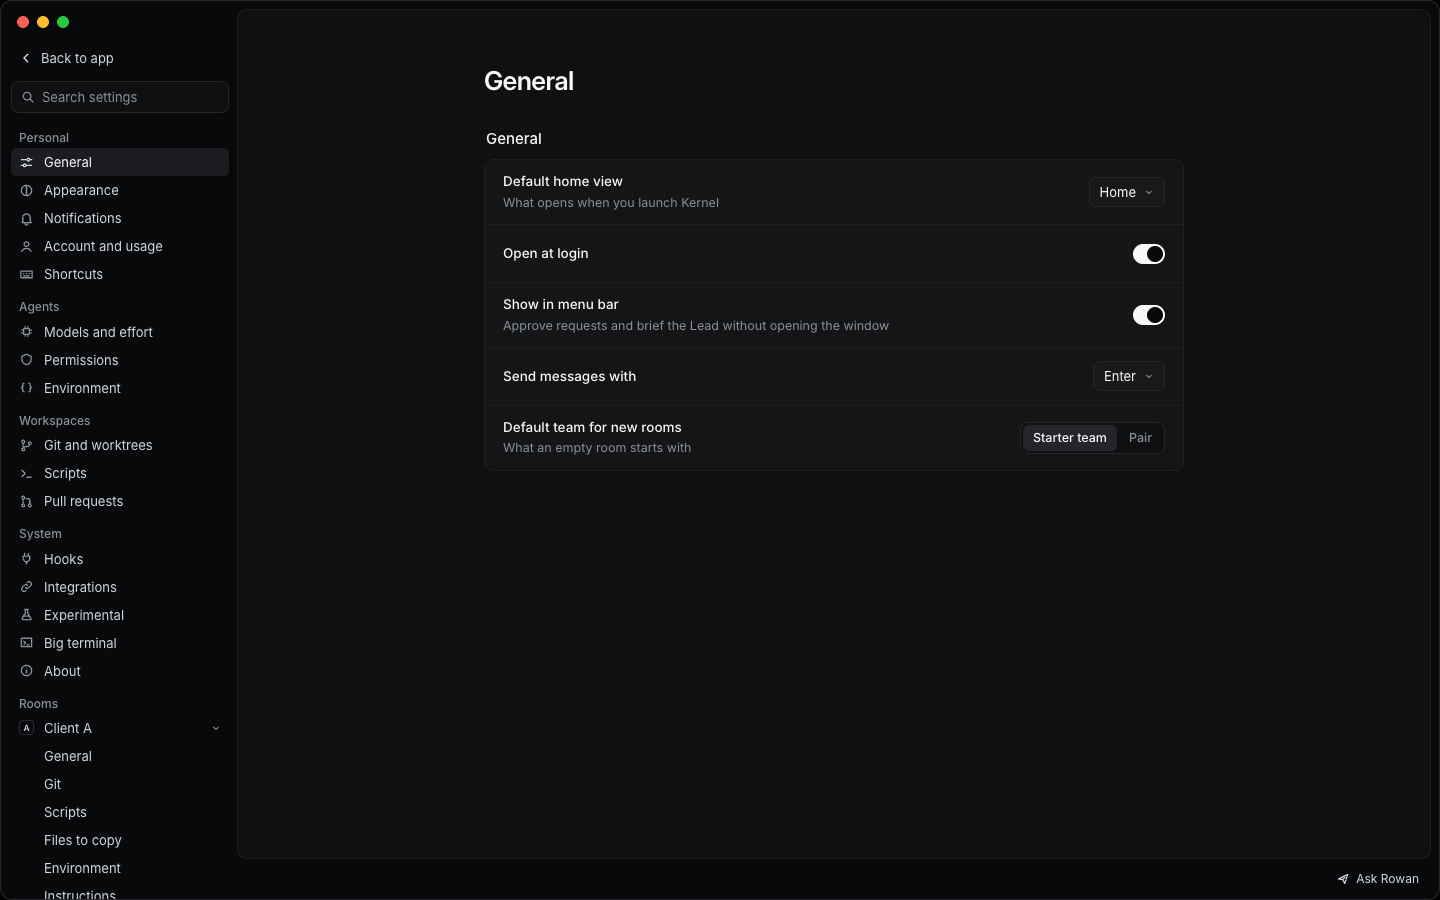
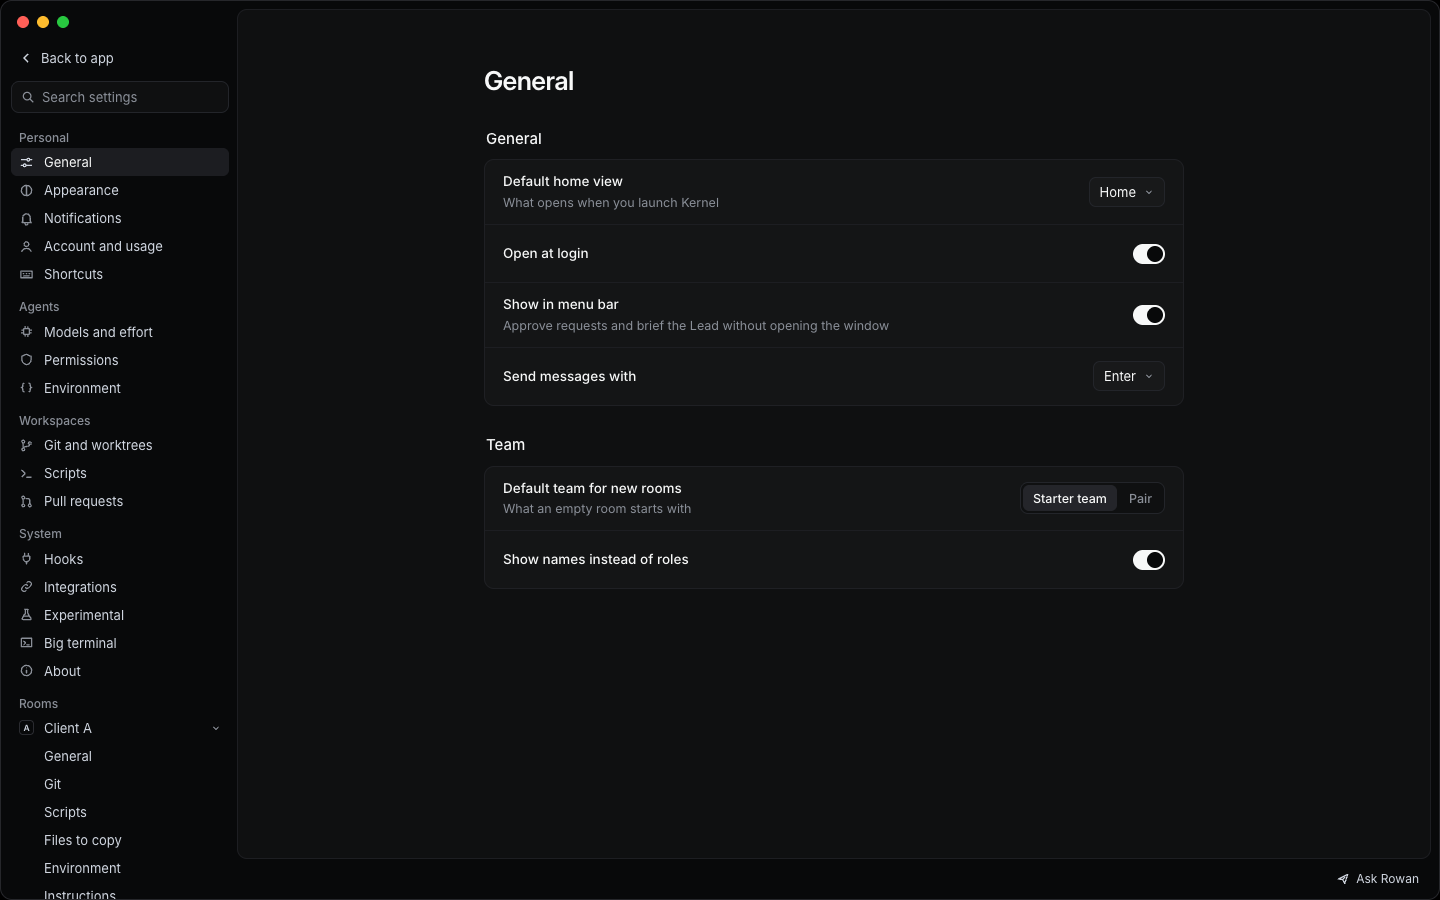
docs(design): move Show names instead of roles to the General page (KERNEL-189)

diff --git a/design/canvas/project/Settings.dc.html b/design/canvas/project/Settings.dc.html
@@ -204,7 +204,8 @@ class Component extends DCLogic {
     var roomPage = function (title, intro, sections) { return { title: title, intro: intro, isRoom: true, sections: sections }; };
     return {
       general: { title: 'General', sections: [
-        { title: 'General', rows: [sel('home', 'Default home view', ['Home', 'Inbox', 'Last room'], 'What opens when you launch Kernel'), tog('login', 'Open at login', true), tog('menubar', 'Show in menu bar', true, 'Approve requests and brief the Lead without opening the window'), sel('send', 'Send messages with', ['Enter', '⌘ Enter']), seg('newteam', 'Default team for new rooms', ['Starter team', 'Pair'], 0, 'What an empty room starts with')] }
+        { title: 'General', rows: [sel('home', 'Default home view', ['Home', 'Inbox', 'Last room'], 'What opens when you launch Kernel'), tog('login', 'Open at login', true), tog('menubar', 'Show in menu bar', true, 'Approve requests and brief the Lead without opening the window'), sel('send', 'Send messages with', ['Enter', '⌘ Enter'])] },
+        { title: 'Team', rows: [seg('newteam', 'Default team for new rooms', ['Starter team', 'Pair'], 0, 'What an empty room starts with'), tog('names', 'Show names instead of roles', true)] }
       ] },
       appearance: { title: 'Appearance', sections: [
         { title: 'Interface', rows: [seg('theme', 'Theme', ['Dark', 'Light', 'System']), sel('font', 'Font size', ['Default', 'Small', 'Large']), seg('density', 'Density', ['Comfortable', 'Compact']), tog('pointer', 'Use pointer cursors', false), tog('motion', 'Reduce motion', false)] }

diff --git a/design/canvas/project/SettingsAbout.dc.html b/design/canvas/project/SettingsAbout.dc.html
@@ -204,7 +204,8 @@ class Component extends DCLogic {
     var roomPage = function (title, intro, sections) { return { title: title, intro: intro, isRoom: true, sections: sections }; };
     return {
       general: { title: 'General', sections: [
-        { title: 'General', rows: [sel('home', 'Default home view', ['Home', 'Inbox', 'Last room'], 'What opens when you launch Kernel'), tog('login', 'Open at login', true), tog('menubar', 'Show in menu bar', true, 'Approve requests and brief the Lead without opening the window'), sel('send', 'Send messages with', ['Enter', '⌘ Enter']), seg('newteam', 'Default team for new rooms', ['Starter team', 'Pair'], 0, 'What an empty room starts with')] }
+        { title: 'General', rows: [sel('home', 'Default home view', ['Home', 'Inbox', 'Last room'], 'What opens when you launch Kernel'), tog('login', 'Open at login', true), tog('menubar', 'Show in menu bar', true, 'Approve requests and brief the Lead without opening the window'), sel('send', 'Send messages with', ['Enter', '⌘ Enter'])] },
+        { title: 'Team', rows: [seg('newteam', 'Default team for new rooms', ['Starter team', 'Pair'], 0, 'What an empty room starts with'), tog('names', 'Show names instead of roles', true)] }
       ] },
       appearance: { title: 'Appearance', sections: [
         { title: 'Interface', rows: [seg('theme', 'Theme', ['Dark', 'Light', 'System']), sel('font', 'Font size', ['Default', 'Small', 'Large']), seg('density', 'Density', ['Comfortable', 'Compact']), tog('pointer', 'Use pointer cursors', false), tog('motion', 'Reduce motion', false)] }

diff --git a/design/canvas/project/SettingsAccount.dc.html b/design/canvas/project/SettingsAccount.dc.html
@@ -204,7 +204,8 @@ class Component extends DCLogic {
     var roomPage = function (title, intro, sections) { return { title: title, intro: intro, isRoom: true, sections: sections }; };
     return {
       general: { title: 'General', sections: [
-        { title: 'General', rows: [sel('home', 'Default home view', ['Home', 'Inbox', 'Last room'], 'What opens when you launch Kernel'), tog('login', 'Open at login', true), tog('menubar', 'Show in menu bar', true, 'Approve requests and brief the Lead without opening the window'), sel('send', 'Send messages with', ['Enter', '⌘ Enter']), seg('newteam', 'Default team for new rooms', ['Starter team', 'Pair'], 0, 'What an empty room starts with')] }
+        { title: 'General', rows: [sel('home', 'Default home view', ['Home', 'Inbox', 'Last room'], 'What opens when you launch Kernel'), tog('login', 'Open at login', true), tog('menubar', 'Show in menu bar', true, 'Approve requests and brief the Lead without opening the window'), sel('send', 'Send messages with', ['Enter', '⌘ Enter'])] },
+        { title: 'Team', rows: [seg('newteam', 'Default team for new rooms', ['Starter team', 'Pair'], 0, 'What an empty room starts with'), tog('names', 'Show names instead of roles', true)] }
       ] },
       appearance: { title: 'Appearance', sections: [
         { title: 'Interface', rows: [seg('theme', 'Theme', ['Dark', 'Light', 'System']), sel('font', 'Font size', ['Default', 'Small', 'Large']), seg('density', 'Density', ['Comfortable', 'Compact']), tog('pointer', 'Use pointer cursors', false), tog('motion', 'Reduce motion', false)] }

diff --git a/design/canvas/project/SettingsAppearance.dc.html b/design/canvas/project/SettingsAppearance.dc.html
@@ -204,7 +204,8 @@ class Component extends DCLogic {
     var roomPage = function (title, intro, sections) { return { title: title, intro: intro, isRoom: true, sections: sections }; };
     return {
       general: { title: 'General', sections: [
-        { title: 'General', rows: [sel('home', 'Default home view', ['Home', 'Inbox', 'Last room'], 'What opens when you launch Kernel'), tog('login', 'Open at login', true), tog('menubar', 'Show in menu bar', true, 'Approve requests and brief the Lead without opening the window'), sel('send', 'Send messages with', ['Enter', '⌘ Enter']), seg('newteam', 'Default team for new rooms', ['Starter team', 'Pair'], 0, 'What an empty room starts with')] }
+        { title: 'General', rows: [sel('home', 'Default home view', ['Home', 'Inbox', 'Last room'], 'What opens when you launch Kernel'), tog('login', 'Open at login', true), tog('menubar', 'Show in menu bar', true, 'Approve requests and brief the Lead without opening the window'), sel('send', 'Send messages with', ['Enter', '⌘ Enter'])] },
+        { title: 'Team', rows: [seg('newteam', 'Default team for new rooms', ['Starter team', 'Pair'], 0, 'What an empty room starts with'), tog('names', 'Show names instead of roles', true)] }
       ] },
       appearance: { title: 'Appearance', sections: [
         { title: 'Interface', rows: [seg('theme', 'Theme', ['Dark', 'Light', 'System']), sel('font', 'Font size', ['Default', 'Small', 'Large']), seg('density', 'Density', ['Comfortable', 'Compact']), tog('pointer', 'Use pointer cursors', false), tog('motion', 'Reduce motion', false)] }

diff --git a/design/canvas/project/SettingsExperimental.dc.html b/design/canvas/project/SettingsExperimental.dc.html
@@ -204,7 +204,8 @@ class Component extends DCLogic {
     var roomPage = function (title, intro, sections) { return { title: title, intro: intro, isRoom: true, sections: sections }; };
     return {
       general: { title: 'General', sections: [
-        { title: 'General', rows: [sel('home', 'Default home view', ['Home', 'Inbox', 'Last room'], 'What opens when you launch Kernel'), tog('login', 'Open at login', true), tog('menubar', 'Show in menu bar', true, 'Approve requests and brief the Lead without opening the window'), sel('send', 'Send messages with', ['Enter', '⌘ Enter']), seg('newteam', 'Default team for new rooms', ['Starter team', 'Pair'], 0, 'What an empty room starts with')] }
+        { title: 'General', rows: [sel('home', 'Default home view', ['Home', 'Inbox', 'Last room'], 'What opens when you launch Kernel'), tog('login', 'Open at login', true), tog('menubar', 'Show in menu bar', true, 'Approve requests and brief the Lead without opening the window'), sel('send', 'Send messages with', ['Enter', '⌘ Enter'])] },
+        { title: 'Team', rows: [seg('newteam', 'Default team for new rooms', ['Starter team', 'Pair'], 0, 'What an empty room starts with'), tog('names', 'Show names instead of roles', true)] }
       ] },
       appearance: { title: 'Appearance', sections: [
         { title: 'Interface', rows: [seg('theme', 'Theme', ['Dark', 'Light', 'System']), sel('font', 'Font size', ['Default', 'Small', 'Large']), seg('density', 'Density', ['Comfortable', 'Compact']), tog('pointer', 'Use pointer cursors', false), tog('motion', 'Reduce motion', false)] }

diff --git a/design/canvas/project/SettingsFiles.dc.html b/design/canvas/project/SettingsFiles.dc.html
@@ -204,7 +204,8 @@ class Component extends DCLogic {
     var roomPage = function (title, intro, sections) { return { title: title, intro: intro, isRoom: true, sections: sections }; };
     return {
       general: { title: 'General', sections: [
-        { title: 'General', rows: [sel('home', 'Default home view', ['Home', 'Inbox', 'Last room'], 'What opens when you launch Kernel'), tog('login', 'Open at login', true), tog('menubar', 'Show in menu bar', true, 'Approve requests and brief the Lead without opening the window'), sel('send', 'Send messages with', ['Enter', '⌘ Enter']), seg('newteam', 'Default team for new rooms', ['Starter team', 'Pair'], 0, 'What an empty room starts with')] }
+        { title: 'General', rows: [sel('home', 'Default home view', ['Home', 'Inbox', 'Last room'], 'What opens when you launch Kernel'), tog('login', 'Open at login', true), tog('menubar', 'Show in menu bar', true, 'Approve requests and brief the Lead without opening the window'), sel('send', 'Send messages with', ['Enter', '⌘ Enter'])] },
+        { title: 'Team', rows: [seg('newteam', 'Default team for new rooms', ['Starter team', 'Pair'], 0, 'What an empty room starts with'), tog('names', 'Show names instead of roles', true)] }
       ] },
       appearance: { title: 'Appearance', sections: [
         { title: 'Interface', rows: [seg('theme', 'Theme', ['Dark', 'Light', 'System']), sel('font', 'Font size', ['Default', 'Small', 'Large']), seg('density', 'Density', ['Comfortable', 'Compact']), tog('pointer', 'Use pointer cursors', false), tog('motion', 'Reduce motion', false)] }

diff --git a/design/canvas/project/SettingsGit.dc.html b/design/canvas/project/SettingsGit.dc.html
@@ -204,7 +204,8 @@ class Component extends DCLogic {
     var roomPage = function (title, intro, sections) { return { title: title, intro: intro, isRoom: true, sections: sections }; };
     return {
       general: { title: 'General', sections: [
-        { title: 'General', rows: [sel('home', 'Default home view', ['Home', 'Inbox', 'Last room'], 'What opens when you launch Kernel'), tog('login', 'Open at login', true), tog('menubar', 'Show in menu bar', true, 'Approve requests and brief the Lead without opening the window'), sel('send', 'Send messages with', ['Enter', '⌘ Enter']), seg('newteam', 'Default team for new rooms', ['Starter team', 'Pair'], 0, 'What an empty room starts with')] }
+        { title: 'General', rows: [sel('home', 'Default home view', ['Home', 'Inbox', 'Last room'], 'What opens when you launch Kernel'), tog('login', 'Open at login', true), tog('menubar', 'Show in menu bar', true, 'Approve requests and brief the Lead without opening the window'), sel('send', 'Send messages with', ['Enter', '⌘ Enter'])] },
+        { title: 'Team', rows: [seg('newteam', 'Default team for new rooms', ['Starter team', 'Pair'], 0, 'What an empty room starts with'), tog('names', 'Show names instead of roles', true)] }
       ] },
       appearance: { title: 'Appearance', sections: [
         { title: 'Interface', rows: [seg('theme', 'Theme', ['Dark', 'Light', 'System']), sel('font', 'Font size', ['Default', 'Small', 'Large']), seg('density', 'Density', ['Comfortable', 'Compact']), tog('pointer', 'Use pointer cursors', false), tog('motion', 'Reduce motion', false)] }

diff --git a/design/canvas/project/SettingsHooks.dc.html b/design/canvas/project/SettingsHooks.dc.html
@@ -204,7 +204,8 @@ class Component extends DCLogic {
     var roomPage = function (title, intro, sections) { return { title: title, intro: intro, isRoom: true, sections: sections }; };
     return {
       general: { title: 'General', sections: [
-        { title: 'General', rows: [sel('home', 'Default home view', ['Home', 'Inbox', 'Last room'], 'What opens when you launch Kernel'), tog('login', 'Open at login', true), tog('menubar', 'Show in menu bar', true, 'Approve requests and brief the Lead without opening the window'), sel('send', 'Send messages with', ['Enter', '⌘ Enter']), seg('newteam', 'Default team for new rooms', ['Starter team', 'Pair'], 0, 'What an empty room starts with')] }
+        { title: 'General', rows: [sel('home', 'Default home view', ['Home', 'Inbox', 'Last room'], 'What opens when you launch Kernel'), tog('login', 'Open at login', true), tog('menubar', 'Show in menu bar', true, 'Approve requests and brief the Lead without opening the window'), sel('send', 'Send messages with', ['Enter', '⌘ Enter'])] },
+        { title: 'Team', rows: [seg('newteam', 'Default team for new rooms', ['Starter team', 'Pair'], 0, 'What an empty room starts with'), tog('names', 'Show names instead of roles', true)] }
       ] },
       appearance: { title: 'Appearance', sections: [
         { title: 'Interface', rows: [seg('theme', 'Theme', ['Dark', 'Light', 'System']), sel('font', 'Font size', ['Default', 'Small', 'Large']), seg('density', 'Density', ['Comfortable', 'Compact']), tog('pointer', 'Use pointer cursors', false), tog('motion', 'Reduce motion', false)] }

diff --git a/design/canvas/project/SettingsIntegrations.dc.html b/design/canvas/project/SettingsIntegrations.dc.html
@@ -204,7 +204,8 @@ class Component extends DCLogic {
     var roomPage = function (title, intro, sections) { return { title: title, intro: intro, isRoom: true, sections: sections }; };
     return {
       general: { title: 'General', sections: [
-        { title: 'General', rows: [sel('home', 'Default home view', ['Home', 'Inbox', 'Last room'], 'What opens when you launch Kernel'), tog('login', 'Open at login', true), tog('menubar', 'Show in menu bar', true, 'Approve requests and brief the Lead without opening the window'), sel('send', 'Send messages with', ['Enter', '⌘ Enter']), seg('newteam', 'Default team for new rooms', ['Starter team', 'Pair'], 0, 'What an empty room starts with')] }
+        { title: 'General', rows: [sel('home', 'Default home view', ['Home', 'Inbox', 'Last room'], 'What opens when you launch Kernel'), tog('login', 'Open at login', true), tog('menubar', 'Show in menu bar', true, 'Approve requests and brief the Lead without opening the window'), sel('send', 'Send messages with', ['Enter', '⌘ Enter'])] },
+        { title: 'Team', rows: [seg('newteam', 'Default team for new rooms', ['Starter team', 'Pair'], 0, 'What an empty room starts with'), tog('names', 'Show names instead of roles', true)] }
       ] },
       appearance: { title: 'Appearance', sections: [
         { title: 'Interface', rows: [seg('theme', 'Theme', ['Dark', 'Light', 'System']), sel('font', 'Font size', ['Default', 'Small', 'Large']), seg('density', 'Density', ['Comfortable', 'Compact']), tog('pointer', 'Use pointer cursors', false), tog('motion', 'Reduce motion', false)] }

diff --git a/design/canvas/project/SettingsModels.dc.html b/design/canvas/project/SettingsModels.dc.html
@@ -204,7 +204,8 @@ class Component extends DCLogic {
     var roomPage = function (title, intro, sections) { return { title: title, intro: intro, isRoom: true, sections: sections }; };
     return {
       general: { title: 'General', sections: [
-        { title: 'General', rows: [sel('home', 'Default home view', ['Home', 'Inbox', 'Last room'], 'What opens when you launch Kernel'), tog('login', 'Open at login', true), tog('menubar', 'Show in menu bar', true, 'Approve requests and brief the Lead without opening the window'), sel('send', 'Send messages with', ['Enter', '⌘ Enter']), seg('newteam', 'Default team for new rooms', ['Starter team', 'Pair'], 0, 'What an empty room starts with')] }
+        { title: 'General', rows: [sel('home', 'Default home view', ['Home', 'Inbox', 'Last room'], 'What opens when you launch Kernel'), tog('login', 'Open at login', true), tog('menubar', 'Show in menu bar', true, 'Approve requests and brief the Lead without opening the window'), sel('send', 'Send messages with', ['Enter', '⌘ Enter'])] },
+        { title: 'Team', rows: [seg('newteam', 'Default team for new rooms', ['Starter team', 'Pair'], 0, 'What an empty room starts with'), tog('names', 'Show names instead of roles', true)] }
       ] },
       appearance: { title: 'Appearance', sections: [
         { title: 'Interface', rows: [seg('theme', 'Theme', ['Dark', 'Light', 'System']), sel('font', 'Font size', ['Default', 'Small', 'Large']), seg('density', 'Density', ['Comfortable', 'Compact']), tog('pointer', 'Use pointer cursors', false), tog('motion', 'Reduce motion', false)] }

diff --git a/design/canvas/project/SettingsNotifications.dc.html b/design/canvas/project/SettingsNotifications.dc.html
@@ -204,7 +204,8 @@ class Component extends DCLogic {
     var roomPage = function (title, intro, sections) { return { title: title, intro: intro, isRoom: true, sections: sections }; };
     return {
       general: { title: 'General', sections: [
-        { title: 'General', rows: [sel('home', 'Default home view', ['Home', 'Inbox', 'Last room'], 'What opens when you launch Kernel'), tog('login', 'Open at login', true), tog('menubar', 'Show in menu bar', true, 'Approve requests and brief the Lead without opening the window'), sel('send', 'Send messages with', ['Enter', '⌘ Enter']), seg('newteam', 'Default team for new rooms', ['Starter team', 'Pair'], 0, 'What an empty room starts with')] }
+        { title: 'General', rows: [sel('home', 'Default home view', ['Home', 'Inbox', 'Last room'], 'What opens when you launch Kernel'), tog('login', 'Open at login', true), tog('menubar', 'Show in menu bar', true, 'Approve requests and brief the Lead without opening the window'), sel('send', 'Send messages with', ['Enter', '⌘ Enter'])] },
+        { title: 'Team', rows: [seg('newteam', 'Default team for new rooms', ['Starter team', 'Pair'], 0, 'What an empty room starts with'), tog('names', 'Show names instead of roles', true)] }
       ] },
       appearance: { title: 'Appearance', sections: [
         { title: 'Interface', rows: [seg('theme', 'Theme', ['Dark', 'Light', 'System']), sel('font', 'Font size', ['Default', 'Small', 'Large']), seg('density', 'Density', ['Comfortable', 'Compact']), tog('pointer', 'Use pointer cursors', false), tog('motion', 'Reduce motion', false)] }

diff --git a/design/canvas/project/SettingsPRs.dc.html b/design/canvas/project/SettingsPRs.dc.html
@@ -204,7 +204,8 @@ class Component extends DCLogic {
     var roomPage = function (title, intro, sections) { return { title: title, intro: intro, isRoom: true, sections: sections }; };
     return {
       general: { title: 'General', sections: [
-        { title: 'General', rows: [sel('home', 'Default home view', ['Home', 'Inbox', 'Last room'], 'What opens when you launch Kernel'), tog('login', 'Open at login', true), tog('menubar', 'Show in menu bar', true, 'Approve requests and brief the Lead without opening the window'), sel('send', 'Send messages with', ['Enter', '⌘ Enter']), seg('newteam', 'Default team for new rooms', ['Starter team', 'Pair'], 0, 'What an empty room starts with')] }
+        { title: 'General', rows: [sel('home', 'Default home view', ['Home', 'Inbox', 'Last room'], 'What opens when you launch Kernel'), tog('login', 'Open at login', true), tog('menubar', 'Show in menu bar', true, 'Approve requests and brief the Lead without opening the window'), sel('send', 'Send messages with', ['Enter', '⌘ Enter'])] },
+        { title: 'Team', rows: [seg('newteam', 'Default team for new rooms', ['Starter team', 'Pair'], 0, 'What an empty room starts with'), tog('names', 'Show names instead of roles', true)] }
       ] },
       appearance: { title: 'Appearance', sections: [
         { title: 'Interface', rows: [seg('theme', 'Theme', ['Dark', 'Light', 'System']), sel('font', 'Font size', ['Default', 'Small', 'Large']), seg('density', 'Density', ['Comfortable', 'Compact']), tog('pointer', 'Use pointer cursors', false), tog('motion', 'Reduce motion', false)] }
